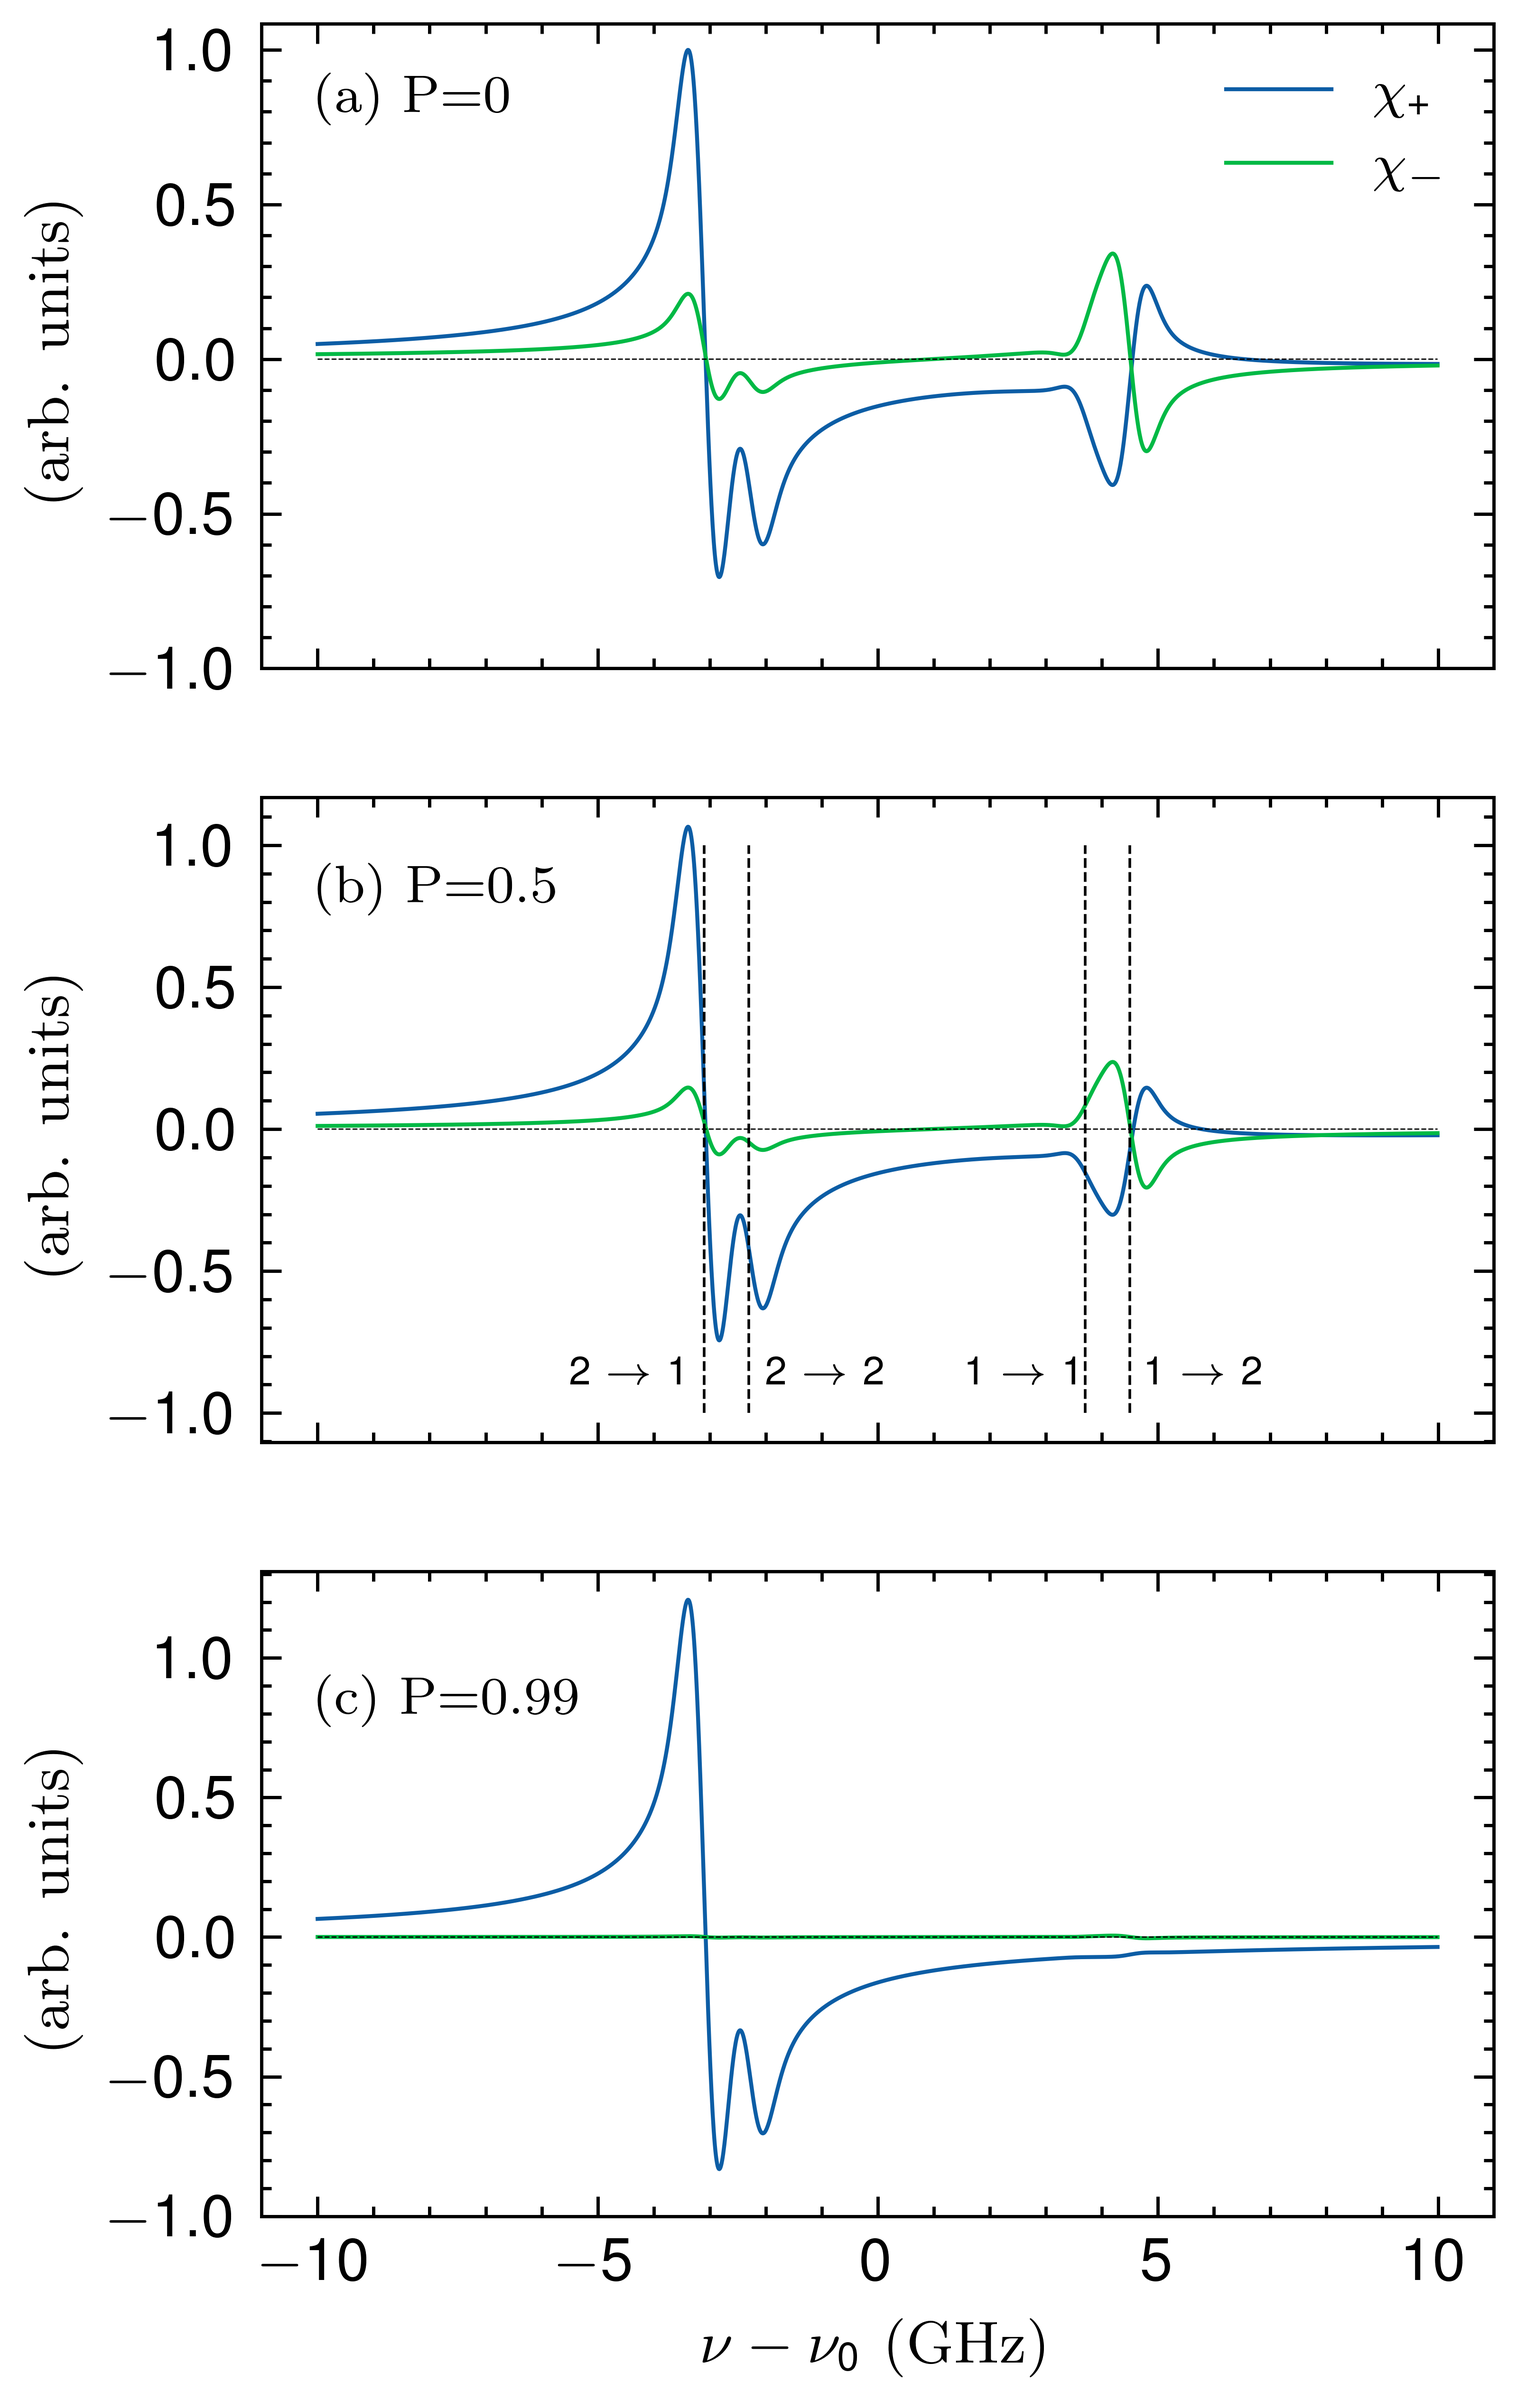
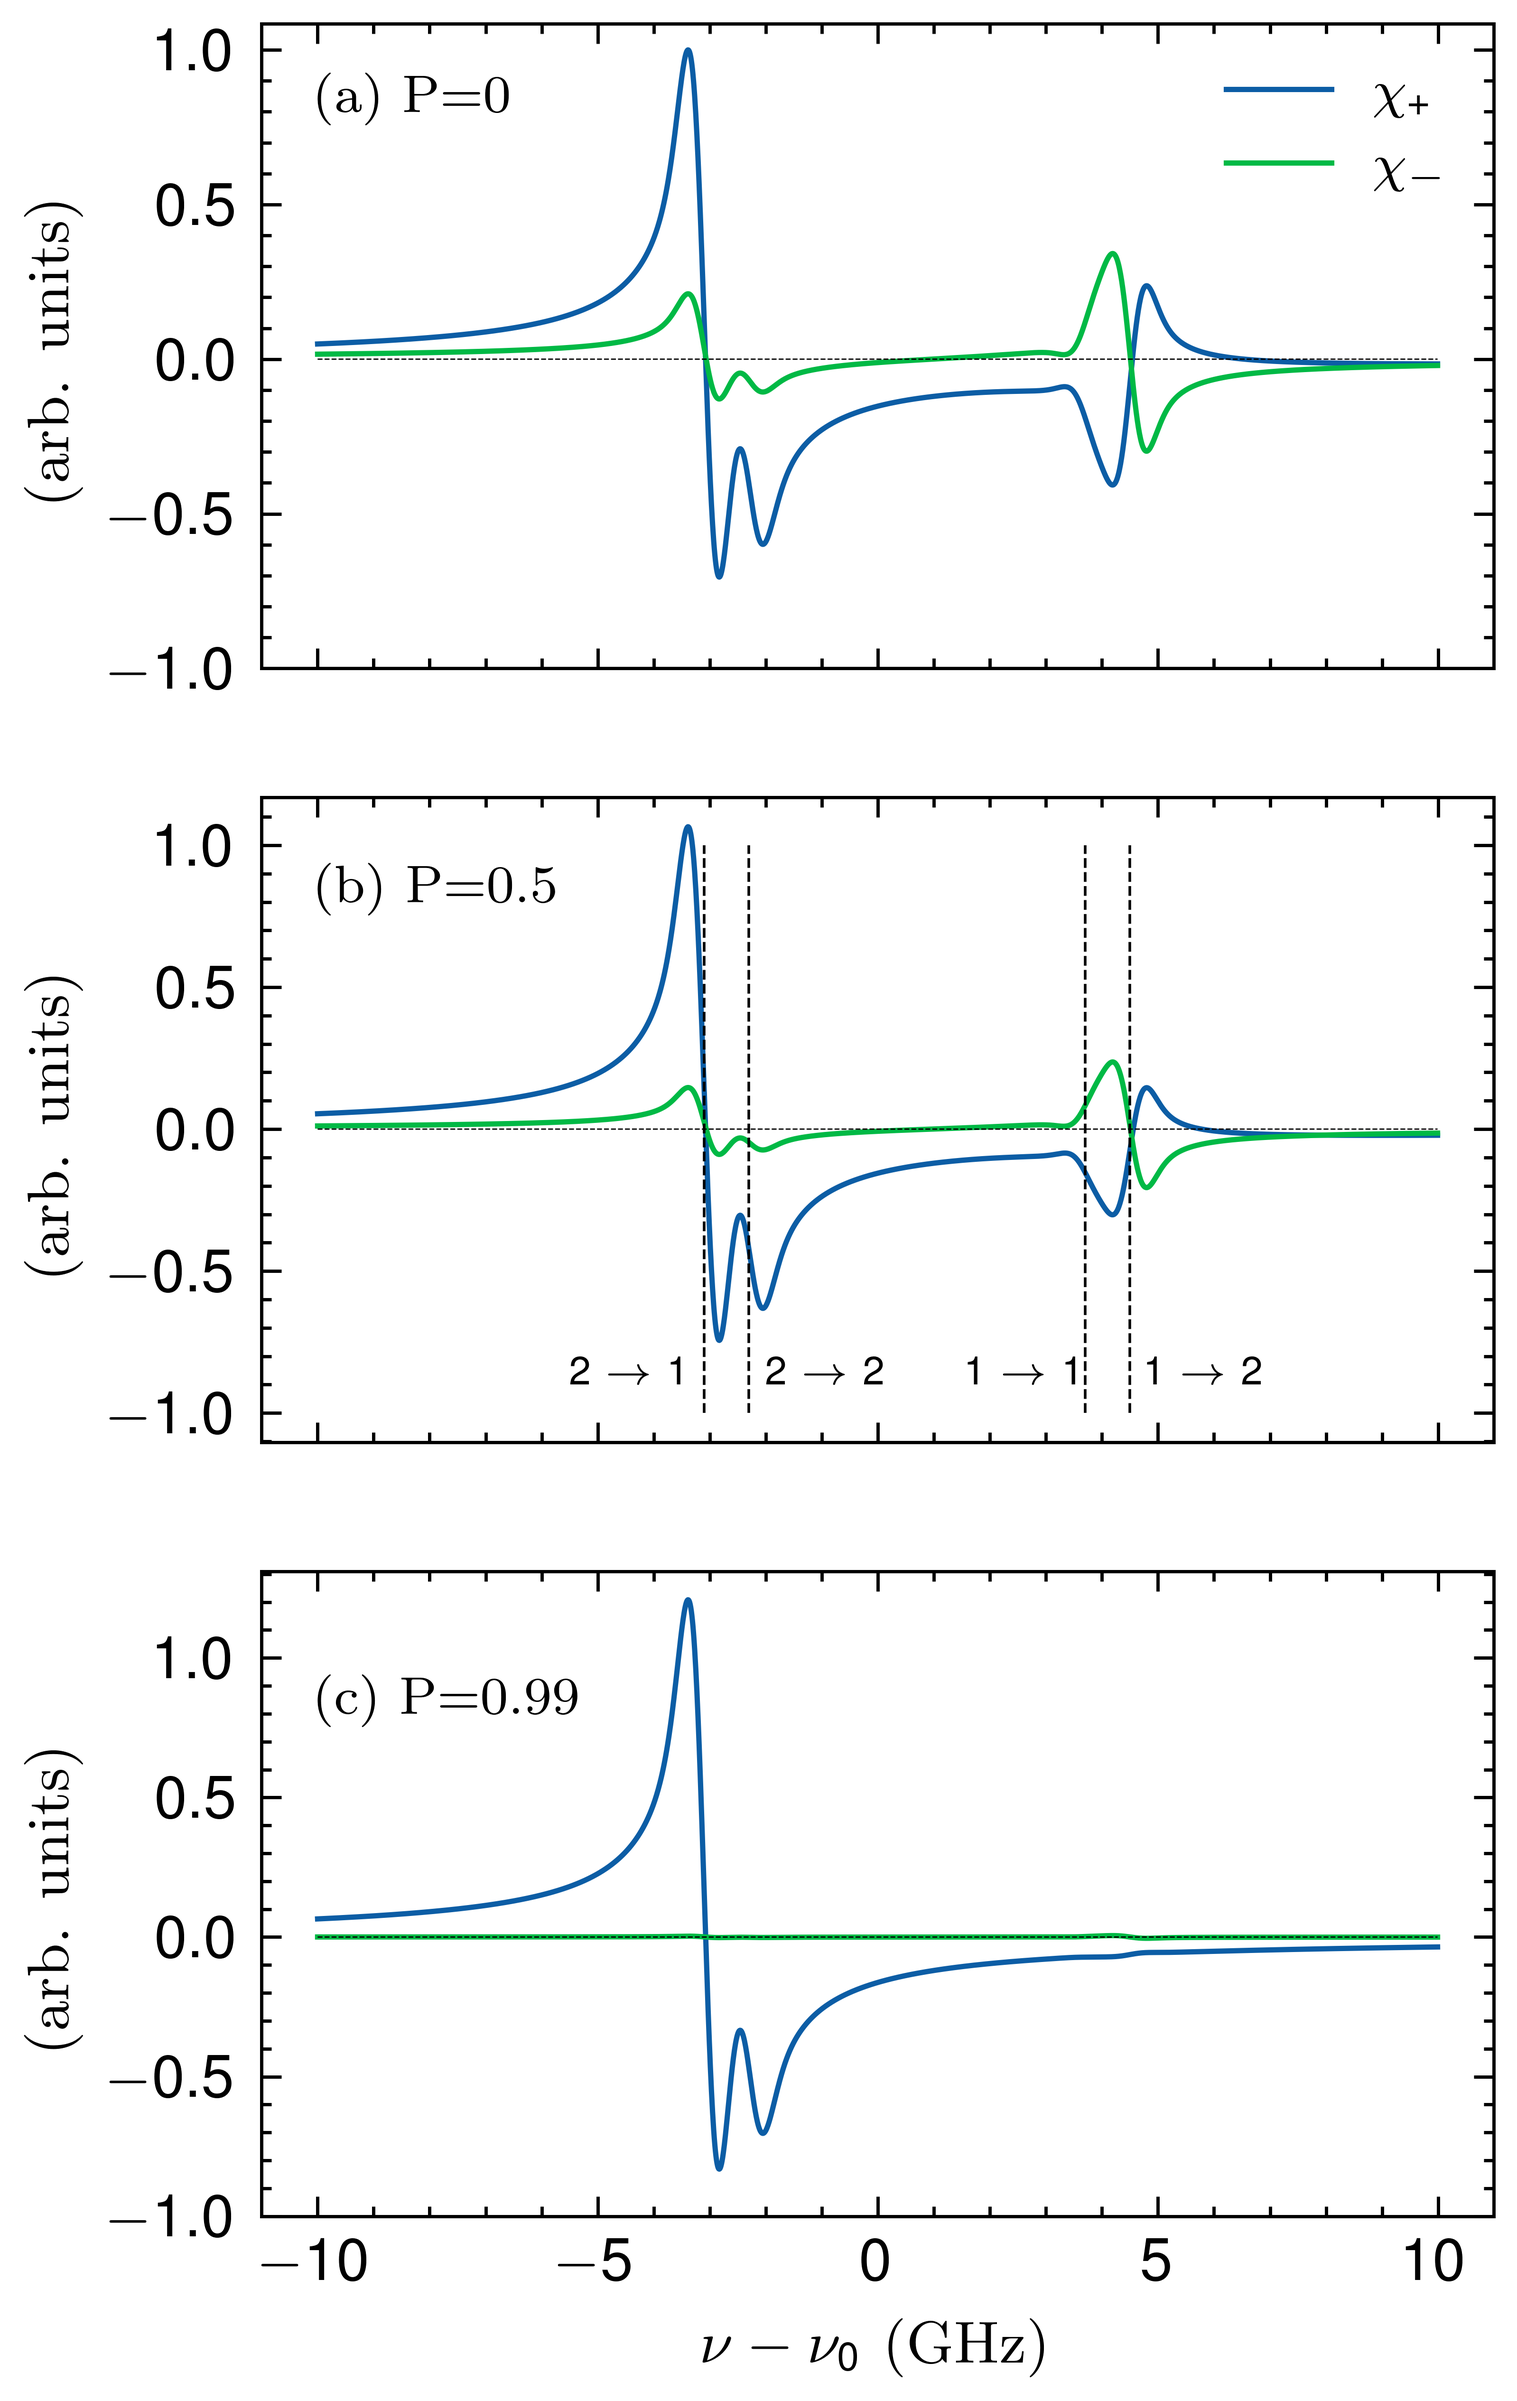
1

Changed region(s): [[0.4645, 0.8432, 0.4955, 0.8745], [0.4645, 0.4997, 0.4955, 0.5309], [0.4645, 0.1874, 0.4955, 0.2186]]

diff --git a/myself/test.py b/myself/test.py
@@ -1,69 +1,61 @@
 # -*- coding:utf-8 -*-
 """
 作者：DELL
-日期：2024年03月07日
+日期：2023年12月24日
 """
 import numpy as np
 import matplotlib.pyplot as plt
-import scienceplots
-from scipy.special import wofz
-
-def voigt_profile(x, sigma, gamma):
-    """
-    Calculate the Voigt profile.
-
-    Parameters:
-        x (array-like): The x-values at which to calculate the profile.
-        sigma (float): The Gaussian standard deviation.
-        gamma (float): The Lorentzian full-width at half-maximum.
-
-    Returns:
-        array-like: The Voigt profile values at the specified x-values.
-    """
-    z = (x + 1j * gamma) / (sigma * np.sqrt(2))
-    v = wofz(z).imag / (sigma * np.sqrt(2 * np.pi))
-    return v
+from my_functions.spin_operators_of_2or1_alkali_metal_atoms import spin_operators_of_2or1_alkali_metal_atoms
+from my_functions.alkali_atom_uncoupled_to_coupled import alkali_atom_uncoupled_to_coupled
+from qutip import *
+from sympy import pi
+from scipy.linalg import *
 
 
-Gammap=0.03        
-Gammad=0.5       
-sigma=Gammad/(2*np.sqrt(2*np.log(2)))
+    # --------------------------------Properties of the alkali metal atom-----------------------------------#
+I=3/2
+a = round(I + 1 / 2)
+b = round(I - 1 / 2)
 
-def chia(delta_nva2):
-    chia=-voigt_profile(delta_nva2+2.3,sigma,Gammap)/4-3/4*voigt_profile(delta_nva2+3.1,sigma,Gammap)
-    return chia
-def chib(delta_nva2):
-    chib=5*voigt_profile(delta_nva2+2.3-6.8,sigma,Gammap)/4-1/4*voigt_profile(delta_nva2+3.1-6.8,sigma,Gammap)
-    return chib
+# --------------------------------Generate the angular momentum operators-----------------------------------#
+U = alkali_atom_uncoupled_to_coupled(round(2 * I))
+ax, ay, az, bx, by, bz = spin_operators_of_2or1_alkali_metal_atoms(1, I)
+Sx = np.kron(np.eye(round(2 * I + 1)), np.array(1 / 2 * sigmax().full()))
+Sx = U.T.conjugate() @ Sx @ U
+Sy = np.kron(np.eye(round(2 * I + 1)), np.array(1 / 2 * sigmay().full()))
+Sy = U.T.conjugate() @ Sy @ U
+Sz = np.kron(np.eye(round(2 * I + 1)), np.array(1 / 2 * sigmaz().full()))
+Sz = U.T.conjugate() @ Sz @ U
 
-def chip(delta_nva2,P):
-    q=2*(3+P**2)/(1+P**2)
-    eta=(3*P**2+5)/(1-P**2)
-    return (eta*chia(delta_nva2)+chib(delta_nva2))/(eta+1)
+# --------------------------------Define the initial state-----------------------------------#
+theta = 0
+phi = 0
+a_theta = spin_Jx(a) * np.sin(theta) * np.cos(phi) + spin_Jy(a) * np.sin(theta) * np.sin(phi) + spin_Jz(a) * np.cos(
+    theta)
+b_theta = spin_Jx(b) * np.sin(theta) * np.cos(phi) + spin_Jy(b) * np.sin(theta) * np.sin(phi) + spin_Jz(b) * np.cos(
+    theta)
+qa, va = np.linalg.eig(np.array(a_theta.full()))
+qb, vb = np.linalg.eig(np.array(b_theta.full()))
+v = block_diag(va, vb)
+q = np.hstack((qa, qb))
+Rho_ini = np.zeros(2 * (a + b + 1))
 
-def chim(delta_nva2,P):
-    q=2*(3+P**2)/(1+P**2)
-    eta=(3*P**2+5)/(1-P**2)
-    return (chia(delta_nva2)-chib(delta_nva2))/(eta+1)
+# # -----------------spin temperature state-----------------#
+P = 0.8
+beta = np.log((1 + P) / (1 - P))
+for i in np.arange(0, 2 * (a + b + 1), 1):
+    Rho_ini = Rho_ini + np.exp(beta * q[i]) * v[:, [i]] * v[:, [i]].T.conjugate()
+Rho_ini = Rho_ini / np.trace(Rho_ini)
 
-plt.style.use(['science','nature'])
-with plt.style.context(['science','nature']):
-    plt.rc('font',family='Times New Roman')
-    delta_nva2=np.arange(-50,50,0.01)
-    fig = plt.figure()
-    plt.rc('font',family='Times New Roman')
-    ax1= fig.add_subplot(111)
+# -----------------eigenstates-----------------#
 
-    p1,=ax1.plot(delta_nva2,chia(delta_nva2)/np.max(chia(delta_nva2)))
-    p2,=ax1.plot(delta_nva2,chib(delta_nva2)/np.max(chia(delta_nva2)))
-    ax1.plot(delta_nva2,np.zeros(len(delta_nva2)),linewidth=0.2,color='black',linestyle='dotted')
+# Rho_ini = np.outer(np.array([0, 1, 0, 0, 0, 0, 0, 0]), np.array([0, 1, 0, 0, 0, 0, 0, 0]))
 
-    ax1.set_ylabel(' (arb. units)', fontsize=10)
-    ax1.tick_params(axis='x', labelsize='10' )
-    ax1.tick_params(axis='y', labelsize='10' )
-    # ax1.set_xlim([-200,-150])
-    # ax1.set_ylim([-0.01,0.01])
-    # ax1.set_yticks([-1,-0.5,0,0.5,1]) # 设置刻度
-    ax1.set_xticklabels([])
+# --------------------------------------Evolution under hyperfine effect, etc.--------------------------------#
+Rhot = Rho_ini
+H=ax-bx
+q, v = np.linalg.eig(H)
+evolving_B = v @ np.diag(np.exp(-1j * q*0.01)) @ np.linalg.inv(v)
 
-plt.show()
+Rhot = evolving_B @ Rhot @ evolving_B.T.conjugate()  # Zeeman effect
+

diff --git a/myself/detuning_factor.py b/myself/detuning_factor.py
@@ -56,8 +56,8 @@ with plt.style.context(['science','nature']):
     ax1= fig.add_subplot(311)
     # ax1.plot([],[])
     # ax1.plot([],[])
-    p1,=ax1.plot(delta_nva2,chip(delta_nva2,0)/np.max(chip(delta_nva2,0)),linewidth=0.6)
-    p2,=ax1.plot(delta_nva2,chim(delta_nva2,0)/np.max(chip(delta_nva2,0)),linewidth=0.6)
+    p1,=ax1.plot(delta_nva2,chip(delta_nva2,0)/np.max(chip(delta_nva2,0)),linewidth=0.8)
+    p2,=ax1.plot(delta_nva2,chim(delta_nva2,0)/np.max(chip(delta_nva2,0)),linewidth=0.8)
     ax1.plot(delta_nva2,np.zeros(len(delta_nva2)),linewidth=0.2,color='black',linestyle='dashed')
 
     ax1.set_ylabel(' (arb. units)', fontsize=9)
@@ -71,8 +71,8 @@ with plt.style.context(['science','nature']):
     ax2 = fig.add_subplot(312)
     # ax2.plot([],[])
     # ax2.plot([],[])
-    ax2.plot(delta_nva2,chip(delta_nva2,0.5)/np.max(chip(delta_nva2,0)),linewidth=0.6)
-    ax2.plot(delta_nva2,chim(delta_nva2,0.5)/np.max(chip(delta_nva2,0)),linewidth=0.6)
+    ax2.plot(delta_nva2,chip(delta_nva2,0.5)/np.max(chip(delta_nva2,0)),linewidth=0.8)
+    ax2.plot(delta_nva2,chim(delta_nva2,0.5)/np.max(chip(delta_nva2,0)),linewidth=0.8)
     ax2.plot(delta_nva2,np.zeros(len(delta_nva2)),linewidth=0.2,color='black',linestyle='dashed')
     ax2.set_ylabel(' (arb. units)', fontsize=9)
     ax2.tick_params(axis='x', labelsize='9' )
@@ -101,8 +101,8 @@ with plt.style.context(['science','nature']):
     ax3 = fig.add_subplot(313)
     # ax3.plot([],[])
     # ax3.plot([],[])
-    ax3.plot(delta_nva2,chip(delta_nva2,0.99)/np.max(chip(delta_nva2,0)),linewidth=0.6)
-    ax3.plot(delta_nva2,chim(delta_nva2,0.99)/np.max(chip(delta_nva2,0)),linewidth=0.6)
+    ax3.plot(delta_nva2,chip(delta_nva2,0.99)/np.max(chip(delta_nva2,0)),linewidth=0.8)
+    ax3.plot(delta_nva2,chim(delta_nva2,0.99)/np.max(chip(delta_nva2,0)),linewidth=0.8)
     ax3.plot(delta_nva2,np.zeros(len(delta_nva2)),linewidth=0.2,color='black',linestyle='dashed')
 
     ax3.set_ylabel(' (arb. units)', fontsize=9)

diff --git a/myself/proof of errors in numerical simulation.py b/myself/proof of errors in numerical simulation.py
@@ -1,31 +1,19 @@
 import matplotlib.pyplot as plt
-from my_functions.spin_operators_of_2or1_alkali_metal_atoms import spin_operators_of_2or1_alkali_metal_atoms
-from my_functions.alkali_atom_uncoupled_to_coupled import alkali_atom_uncoupled_to_coupled
 from qutip import *
-from sympy.physics.quantum.spin import Rotation
-from sympy import pi
-from NewGamma import Gamma
+from my_functions.Relaxation_rate_calculation_by_DME import Gamma
 from scipy.linalg import *
 import numpy as np
-from my_functions.test7_copy import gammam
-from matplotlib import ticker
+
+DD1,z,PP1=Gamma(3/2,0.05,0.01,5000)
+DD2,zz,PP2=Gamma(3/2,0.01,0.01,50000)
 
 
-DD1,z,PP1=Gamma(3/2,0.01,0.01,5000)
-DD2,zz,PP2=Gamma(3/2,0.01,0.005,5000)
-DD3,zzz,PP3=Gamma(3/2,0.01,0.001,5000)
-
-happer1=5/108*np.ones(len(PP1))
-happer2=5/108*np.ones(len(PP2))
-happer3=5/108*np.ones(len(PP3))
 fig = plt.figure()
 plt.rc('font',family='Times New Roman')
 ax1 = fig.add_subplot(111)
-ax1.plot(PP1,(DD1-happer1)/happer1,linewidth=0.5)
-ax1.plot(PP2,(DD2-happer2)/happer2,linewidth=0.5)
-ax1.plot(PP3,(DD3-happer3)/happer3,linewidth=0.5)
-ax1.legend(["$ dt=0.01$", "$ dt=0.005$", "$dt=0.001$"],
-               loc='lower right', prop={'size': 9})
+ax1.plot(PP1,(DD1)/np.max(DD1),linewidth=0.5)
+ax1.plot(PP2,(DD2)/np.max(DD1),linewidth=0.5)
+
 
 
 plt.savefig('Gamma_.png', dpi=1000)

diff --git a/myself/plotofGamma.py b/myself/plotofGamma.py
@@ -4,7 +4,7 @@ from my_functions.alkali_atom_uncoupled_to_coupled import alkali_atom_uncoupled_
 from qutip import *
 from sympy.physics.quantum.spin import Rotation
 from sympy import pi
-from NewGamma import Gamma
+from myself.my_functions.Relaxation_rate_calculation_by_DME import Gamma
 from scipy.linalg import *
 import numpy as np
 from my_functions.test7_copy import gammam
